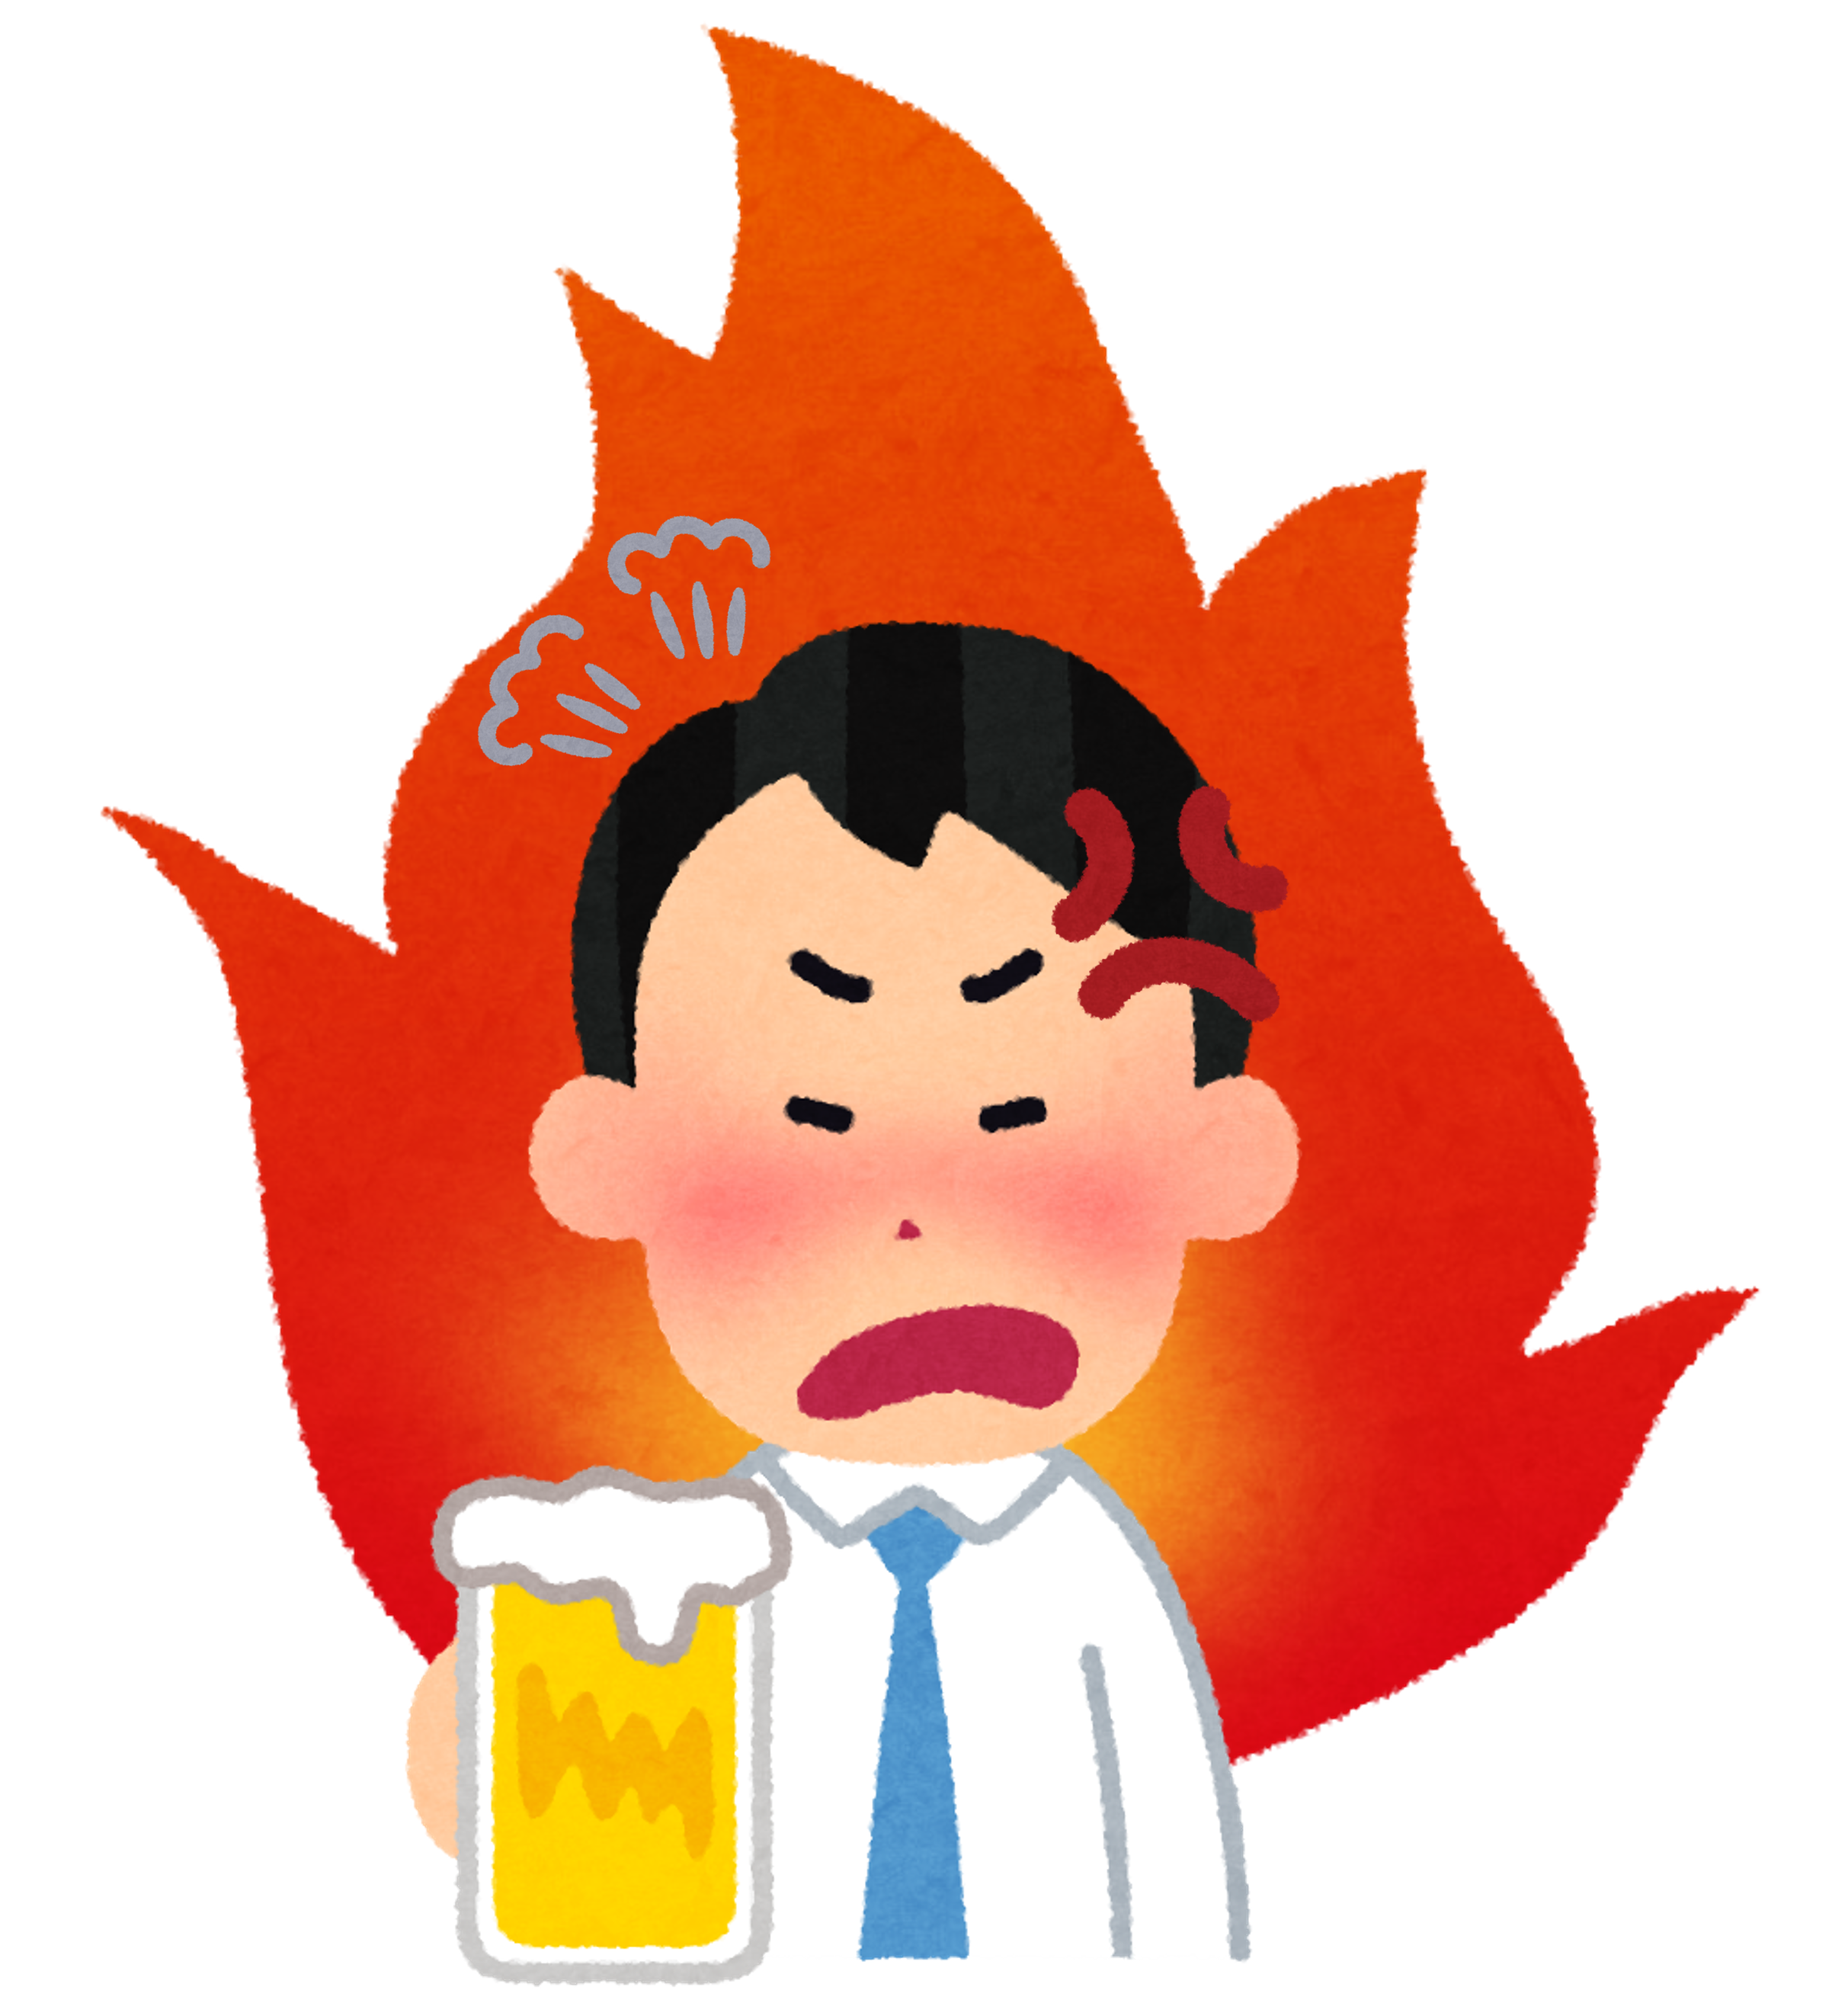
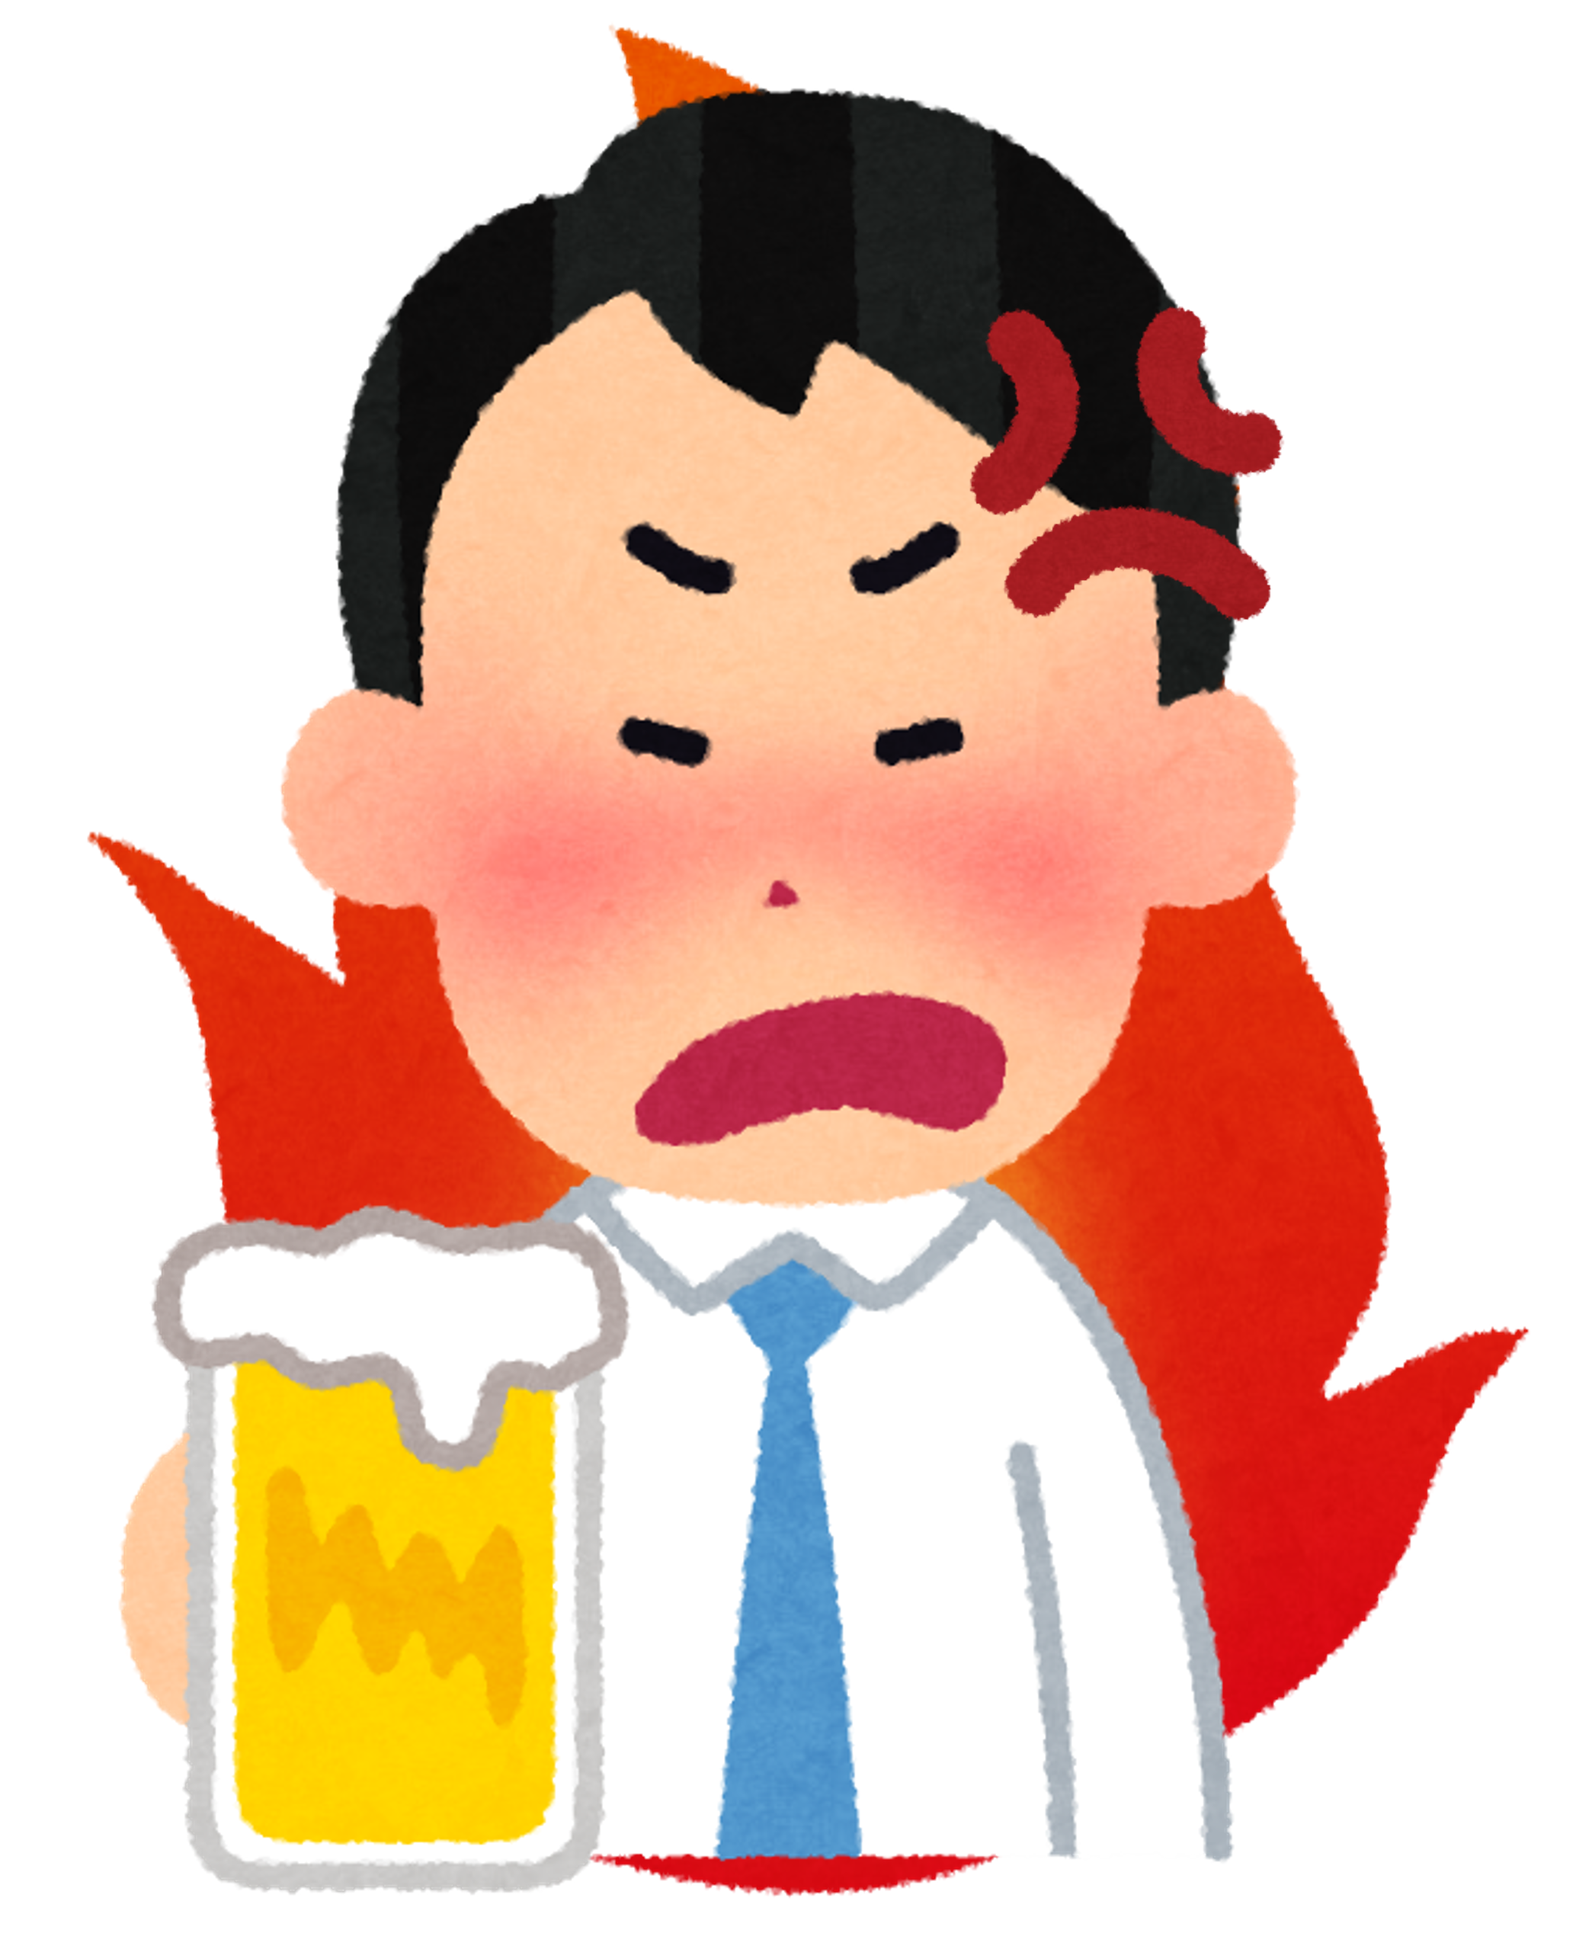
画像切り替え改良しました

diff --git a/Assets/Scripts/ChangeCharactorImage.cs b/Assets/Scripts/ChangeCharactorImage.cs
@@ -11,6 +11,7 @@ public class ChangeCharactorImage : MonoBehaviour
     private Image img;
     private GameObject obj;
     BreikoBar bureikoBarScript;
+    RectTransform rectTransform;
 
     void Start()
     {
@@ -30,7 +31,7 @@ public class ChangeCharactorImage : MonoBehaviour
         {
             img.sprite = Resources.Load<Sprite>("Charactor/senpai/angry");
         }
-        else
+        else if (bureikoBarScript.bureikoBarValue > 80)
         {
             img.sprite = Resources.Load<Sprite>("Charactor/senpai/superAngry");
         }
